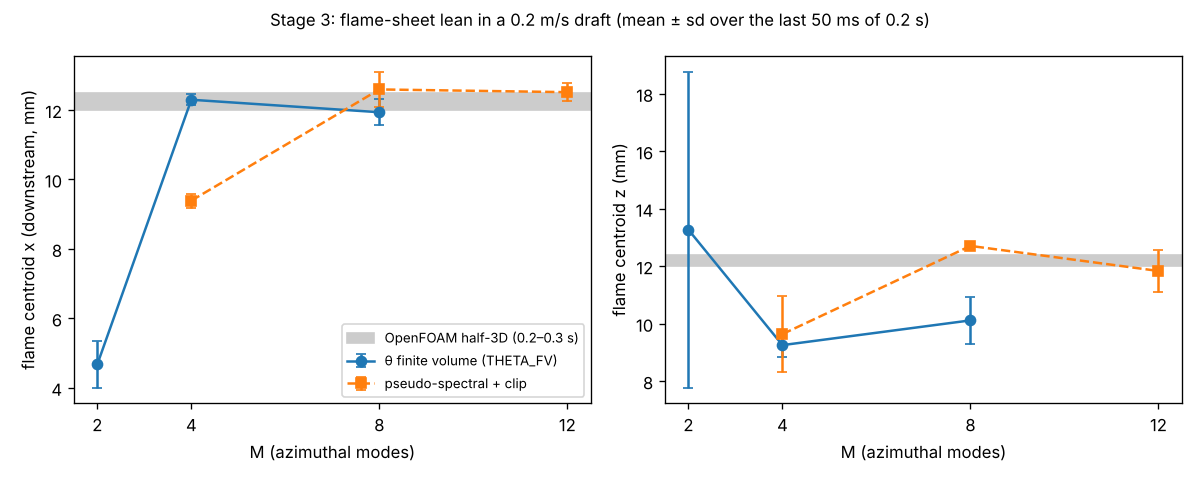
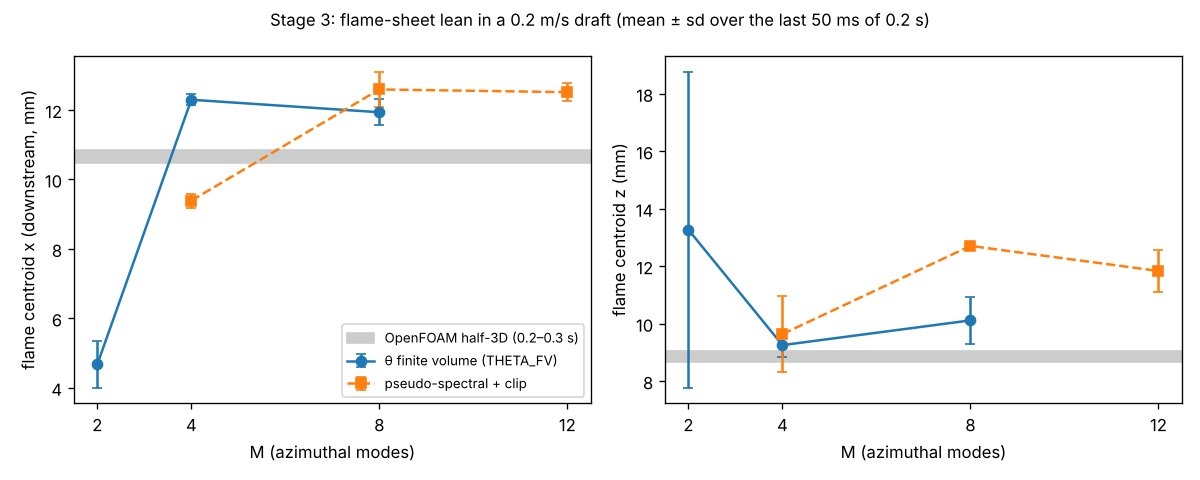
quasi3d: consistent flame-geometry comparison with OpenFOAM (all fluid cells): quasi-3D flame leans further downstream (stage 4 centroid +33 %, stage 3 +13-17 %); corrected STATUS, README, stage 3 figure
Validator: stage 3 partial (centroid converges 4->8, tip does not, M=2 fails), stage 4 vs 3 PASS centroid,
stage 5 FAIL as originally claimed (inconsistent metric), stage 6 PASS.

Claude-Session: https://claude.ai/code/session_01NTeQRMevoZio2HgQkkHtJa

diff --git a/quasi3d/plots.py b/quasi3d/plots.py
@@ -120,8 +120,9 @@ def stage3():
     """lean vs number of modes (time-averaged over the last 50 ms) against the OpenFOAM half-3D reference"""
     rows = json.load(open(os.path.join(OUT, 'stage3_lean_summary.json')))
     fig, axs = plt.subplots(1, 2, figsize=(10, 4))
-    for ax, k, lab, ref in ((axs[0], 'cen_x_mm', 'flame centroid x (downstream, mm)', (12.0, 12.5)),
-                            (axs[1], 'cen_z_mm', 'flame centroid z (mm)', (12.0, 12.4))):
+    # OpenFOAM half-3D, same region definition (Z >= Zst, all fluid cells), t = 0.2-0.3 s (tools/of3d_flame.py)
+    for ax, k, lab, ref in ((axs[0], 'cen_x_mm', 'flame centroid x (downstream, mm)', (10.46, 10.86)),
+                            (axs[1], 'cen_z_mm', 'flame centroid z (mm)', (8.67, 9.04))):
         for scheme, mk in (('FV', 'o-'), ('clip', 's--')):
             r = [x for x in rows if x['case'].startswith(scheme)]
             Ms = [int(x['case'].split('=')[1]) for x in r]

diff --git a/quasi3d/tools/of3d_flame.py b/quasi3d/tools/of3d_flame.py
@@ -14,10 +14,10 @@ for t in sys.argv[2:]:
     Y = np.array([read_field(f'{case}/{t}/{s}') for s in ['C12H26', 'O2', 'CO', 'CO2', 'H2O']])
     T = read_field(f'{case}/{t}/T')
     Z = mixture_fraction(Y)
-    ins = (Z >= 0.0621) & (z > 6e-3)
+    ins = (Z >= 0.0621)      # all fluid cells, same definition as stage3_flamesheet.flame_geometry
     w = Vc * ins
     k = np.argmax(np.where(ins, z, -1))
     xc, zc = (w * x).sum() / w.sum(), (w * z).sum() / w.sum()
     ang = lambda a, b: np.degrees(np.arctan2(a, b - 6e-3))
-    print(f't={t}: tip z {z[k]*1e3:.1f} mm x {x[k]*1e3:.1f} mm ({ang(x[k], z[k]):.1f} deg); centroid x {xc*1e3:.2f} z {zc*1e3:.2f} mm '
+    print(f't={t}: [all fluid cells] tip z {z[k]*1e3:.1f} mm x {x[k]*1e3:.1f} mm ({ang(x[k], z[k]):.1f} deg); centroid x {xc*1e3:.2f} z {zc*1e3:.2f} mm '
           f'({ang(xc, zc):.1f} deg); vol {2*w.sum()*1e6:.2f} cm3; Tmax {T.max():.0f} K')

diff --git a/quasi3d/STATUS.md b/quasi3d/STATUS.md
@@ -92,11 +92,14 @@ envelope (T > 1200 K or Y_fuel > 0.01, z < 46 mm) T and Y are held at the OpenFO
   | THETA_FV M = 8 | 11.9 ± 0.4 | 10.1 ± 0.8 | 29.4 ± 3.3 | 23.8 ± 1.2 | −2.1e-5 |
   | spectral+clip M = 8 | 12.6 ± 0.5 | 12.7 ± 0.1 | 34.4 ± 0.8 | 25.9 ± 1.3 | −2.9e-4 |
   | spectral+clip M = 12 | 12.5 ± 0.3 | 11.8 ± 0.7 | 32.6 ± 2.8 | 25.5 ± 1.0 | −2.8e-4 |
-  | OpenFOAM half-3D (0.2–0.3 s) | 12.0–12.5 | 12.0–12.4 | 23–24 | 20.1 | – |
+  | OpenFOAM half-3D (0.2–0.3 s) | 10.5–10.9 | 8.7–9.0 | 23–24 | 20.1 | – |
 
-  Verdict: the lean converges from M = 4 to M = 8 (centroid within 0.4 / 0.8 mm) and its downstream offset matches
-  OpenFOAM; the THETA_FV flame sits 2–3 mm lower. **M = 2 does not converge**: two velocity modes cannot carry the
-  flame off-axis (honest limitation; the plan's criterion "converges for M = 2/4/8" holds only for 4 → 8).
+  (OpenFOAM numbers with the SAME region definition as `flame_geometry`: Z ≥ Zst over all fluid cells; an earlier
+  version of tools/of3d_flame.py excluded z < 6 mm and gave 12.0/12.0 mm — that comparison was inconsistent, caught
+  by the validator.) Verdict (validator: PARTIAL / FAIL as worded): the centroid converges from M = 4 to 8 (x within
+  0.4 mm, z within 0.9 mm), but the tip height does not (22.6 → 29.4 mm, M = 8 still oscillating); **M = 2 does not
+  lean at all** (two velocity modes cannot carry the flame off-axis). Against OpenFOAM the THETA_FV flame sits
+  ≈ 1.4–1.8 mm (13–17 %) further downstream; centroid height agrees within ≈ 1 mm.
 
 ## Stage 4 — finite-rate chemistry (validator: m = 0 PASS; Tmax +1.4 %, tip −3.6 / +2.9 %; axis T +45 K above the flame, axis u_z 6–9 % low at 10–30 mm)
 - `chem.py` verified against Cantera (constant-pressure reactor). Strang splitting.
@@ -105,17 +108,26 @@ envelope (T > 1200 K or Y_fuel > 0.01, z < 46 mm) T and Y are held at the OpenFO
 - Draft, pseudo-spectral + CLIP (M = 8): unphysical after 30 ms (species Gibbs: Y_O2 0.28, T 2574 K) — abandoned.
 - Draft with THETA_FV, V = 0.2 m/s, 0.2 s (out/stage4_M4_V0.2_h0.375_fv3.json; continuation chain _fv → _fv2 →
   _fv3 with DRAFT_KICK=0). M = 4, mean over the last 50 ms: Tmax 2066 ± 2 K (OpenFOAM 3D 2061), tip (z 27.8, x 25.5)
-  mm (OpenFOAM 23.2, 20.1), centroid x 13.7 ± 0.3 mm, angle 68° (→ z ≈ 11.5 mm; OpenFOAM 12.0, 12.0 mm, 63°).
-  Agrees with stage 3 THETA_FV M = 4 (centroid x 12.3, tip (22.6, 23.8)) within ≈1.5 mm in the centroid.
+  mm (OpenFOAM 23.2, 20.1), centroid x 13.7 ± 0.3 mm; final state (validator) centroid (14.1, 11.0) mm, tip angle 54°,
+  flame volume 2.76 cm³. Still drifting at t = 0.5 (centroid x 12.4 → 14.1 over the last 70 ms) → continued to 0.6 s
+  (_fv4). vs stage 3 THETA_FV M = 4 (12.3, 9.3): +15 % in x (validator: PASS for the centroid, borderline tip).
+  Physics sanity (validator): T 300–2064 K, ΣY = 1, Z_C vs Z_H within 7.6e-4, mirror-symmetric about θ = 0.
   M = 8 continuation (_fv3) running as the mode-convergence check (agreed with M = 4 at 30 ms: centroid x 5.4/5.2).
 - Open: Qchem diagnostic (ρΣhf ΔY over both Strang halves) reads ≈130 W vs ≈73 W from fuel × LHV; the solution
   (Tmax, shape) matches OpenFOAM, so this looks like a diagnostic issue — not resolved.
 
-## Stage 5 — OpenFOAM half-3D reference
+## Stage 5 — OpenFOAM half-3D reference (validator: FAIL as originally claimed — inconsistent metric, now corrected)
+- Consistent comparison (Z ≥ Zst, all fluid cells), OpenFOAM t = 0.2–0.3 s: centroid x 10.5–10.9 mm, z 8.7–9.0 mm,
+  tip (z 23–24, x 20.1) mm, tip angle 48–49°, flame volume 2.2–2.3 cm³. Stage 4 (M = 4, t = 0.5): centroid
+  (14.1, 11.0) mm (+33 % downstream), tip (26–28, 25–28) mm, tip angle ≈ 50–54° (agrees), volume 2.76 cm³.
+  So the quasi-3D flame leans the same way and with the same tip angle, but its body sits ≈ 3.5 mm further
+  downstream and its tip 4–7 mm further out/up. Both plumes reach the outer boundary (R ≈ 38 mm) above z ≈ 25 mm,
+  so the far-field lean is domain-dependent in both codes.
 - `of3d/gen3d.py`, `of3d/Allrun`, 119k cells, V = 0.2 m/s, started from the axisymmetric solution + draft
   (OpenFOAM via micromamba at /opt/mm/root/envs/of; `export CONDA_PREFIX=/opt/mm/root/envs/of
   PATH=$CONDA_PREFIX/bin:$PATH; source etc/env.sh`). `tools/of3d_flame.py CASE times` → flame geometry.
-- DONE (t = 0.3 s). Lean (Z ≥ Zst region): t = 0.05 s tip (36.1, 9.5) mm, centroid 39°; 0.1 s tip (27.3, 15.3), 55°;
+- DONE (t = 0.3 s). Numbers in this list exclude z < 6 mm (old tool version; see the consistent numbers above):
+  t = 0.05 s tip (36.1, 9.5) mm, centroid 39°; 0.1 s tip (27.3, 15.3), 55°;
   0.3 s tip (z 23.2, x 20.1) mm, centroid (x 12.0, z 12.0) mm, 63.4°, Tmax 2061 K;
   0.2 s tip (24.0, 20.1) mm, centroid (12.5, 12.4) mm, 63° (steady from ≈ 0.2 s); Tmax 2059 K; max |u| 2.18 →
   1.63 (0.12 s) → 1.95 m/s (0.24 s, at x = 37 mm, z = 83 mm: the leaning plume reaches the outer boundary).

diff --git a/README.md b/README.md
@@ -112,12 +112,13 @@ line-of-sight integration of a soot-proxy blackbody plus CH*/C₂* chemiluminesc
 |---|---|---|
 | 1 cold crossflow | uniform m = 1 draft stays uniform (< 1 %) | 0.20 % (M = 4); exact discrete steady state |
 | 2 hot plume | m = 0 axis velocity / temperature vs OpenFOAM | u_z within 3.2 %, free-plume T within 0.4 % |
-| 3 flame sheet | m = 0 tip 44 mm ± 10 %; lean converges with M | tip 45.6–46.8 mm; lean converges 4 → 8 (centroid within 0.4 mm), **not at M = 2** |
+| 3 flame sheet | m = 0 tip 44 mm ± 10 %; lean converges with M | tip 45.6–46.8 mm ✓; flame centroid converges 4 → 8 (within 0.4/0.9 mm), tip height does not (22.6 → 29.4 mm); **M = 2 does not lean** |
 | 4 finite-rate | m = 0 tip and peak T within 5 % of OpenFOAM | tip 43.1 / 46.0 mm (−3.6 / +2.9 %), Tmax 1950 K (+1.4 %) |
-| 5 reference | OpenFOAM half-3D (119k cells, symmetry plane), same draft | flame centroid x 13.7 vs 12.0 mm, tip (27.8, 25.5) vs (23.2, 20.1) mm, Tmax 2066 vs 2061 K ([figure](quasi3d/figs/stage5_compare.png)) |
+| 5 reference | OpenFOAM half-3D (119k cells, symmetry plane), same draft | same lean direction and tip angle (≈50° vs 48–49°), Tmax 2066 vs 2061 K; but the flame body sits further downstream (centroid x 14.1 vs 10.5–10.9 mm, +33 %) and the tip 4–7 mm further out/up ([figure](quasi3d/figs/stage5_compare.png)) |
 
 A 0.2 m/s draft is comparable to the flame's own buoyant velocity near its base. The flame therefore lies down along
-the wax surface and turns up into a plume about 20 mm downstream. OpenFOAM's 3D reference shows the same.
+the wax surface and turns up into a plume about 20 mm downstream. OpenFOAM's 3D reference shows the same picture,
+with the quasi-3D flame leaning somewhat further downstream (see the table).
 
 **Limits.**
 - Few modes. M = 2 cannot move the flame off-axis. M = 4–8 resolve the lean of the flame body, but the stretched outer
